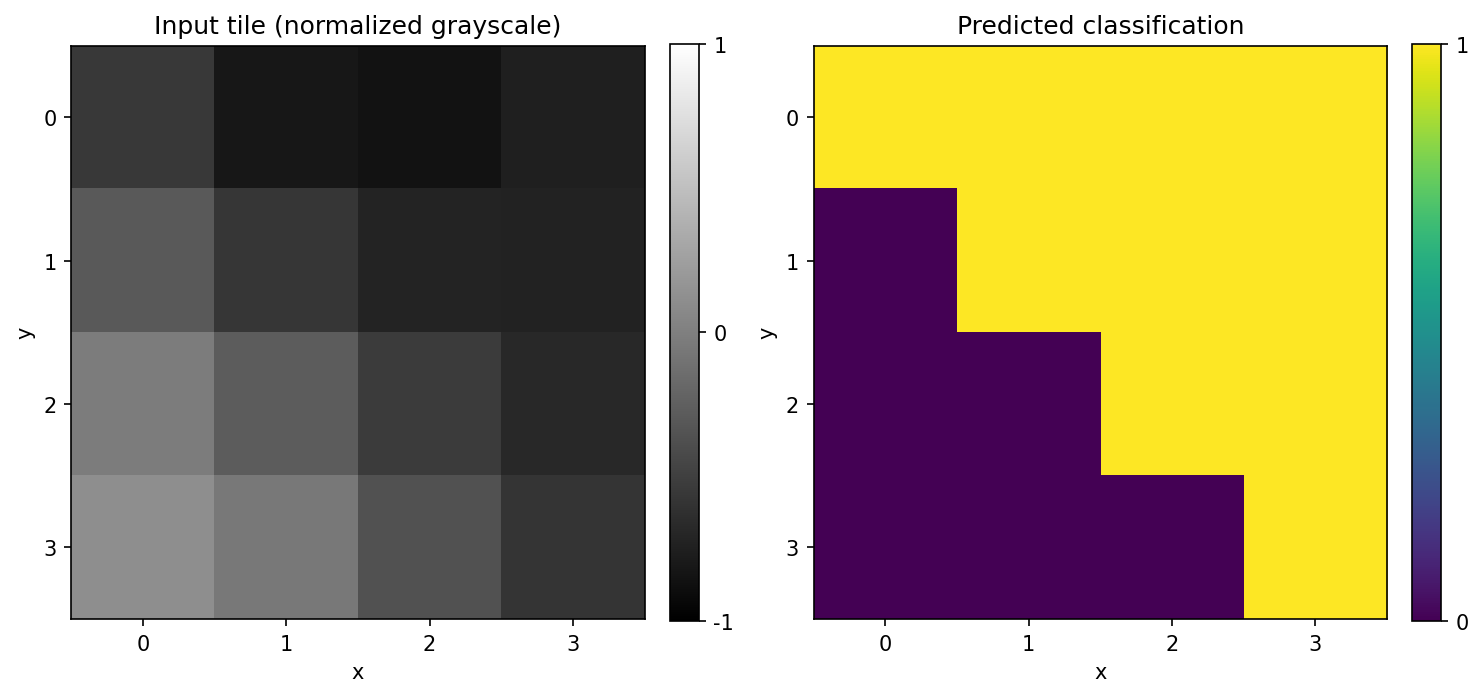
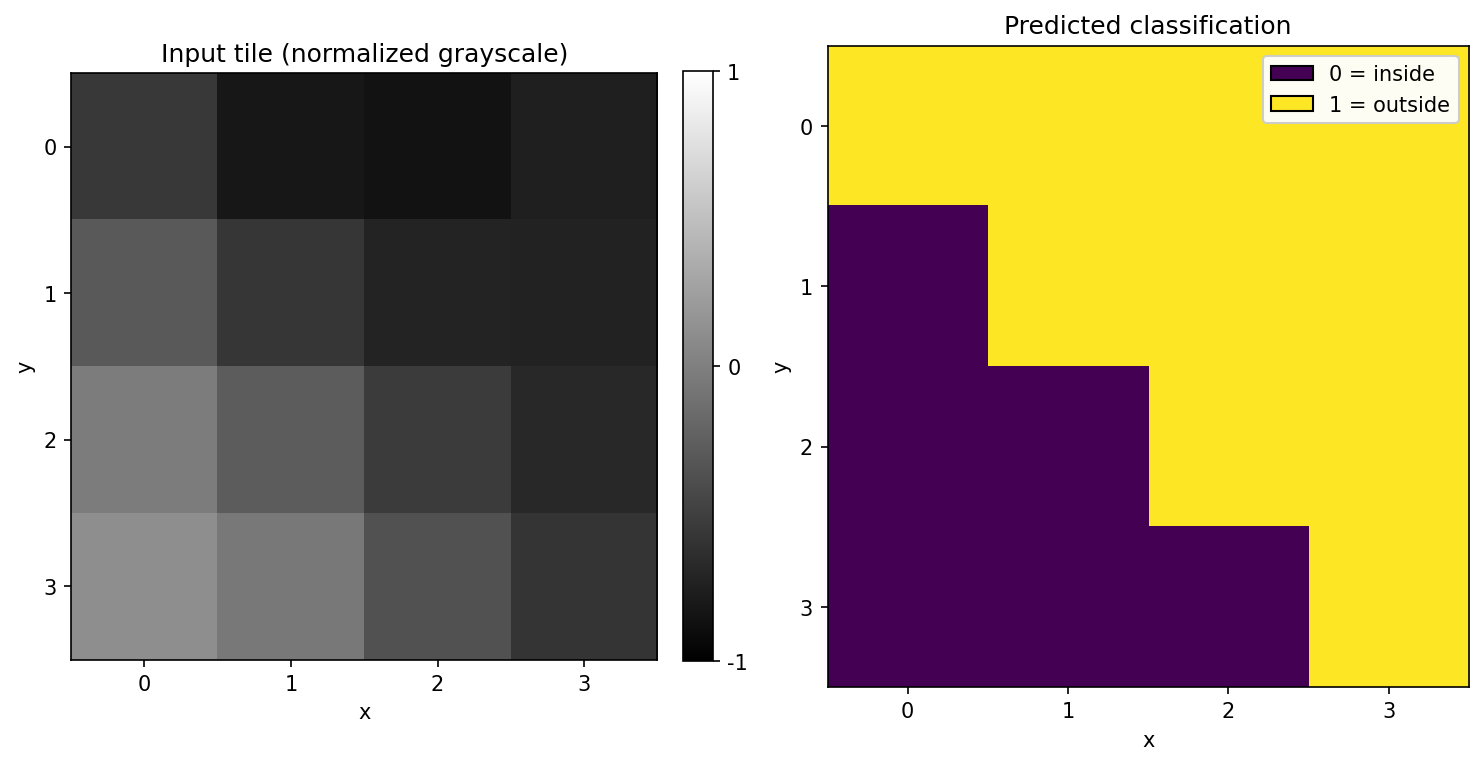
fixed label

diff --git a/ehands_qcrank_vertex_classification_flat.py b/ehands_qcrank_vertex_classification_flat.py
@@ -7,6 +7,7 @@ import argparse
 from PIL import Image
 import numpy as np
 import matplotlib.pyplot as plt
+from matplotlib.patches import Patch
 from math import pi
 import sys
 from dotenv import load_dotenv
@@ -941,10 +942,17 @@ def plot_input_tile_and_classification(input_tile, predicted_tile, out_name):
     ax_pred.set_title("Predicted classification")
     ax_pred.set_xlabel("x")
     ax_pred.set_ylabel("y")
-    cbar = fig.colorbar(im1, ax=ax_pred, ticks=[0, 1], fraction=0.046, pad=0.04)
-    cbar.set_ticklabels(["0", "1"])
     ax_pred.set_xticks(np.arange(predicted_tile.shape[1]))
     ax_pred.set_yticks(np.arange(predicted_tile.shape[0]))
+    cmap = plt.get_cmap("viridis")
+    ax_pred.legend(
+        handles=[
+            Patch(facecolor=cmap(0.0), edgecolor="black", label="0 = inside"),
+            Patch(facecolor=cmap(1.0), edgecolor="black", label="1 = outside"),
+        ],
+        loc="upper right",
+        framealpha=0.95,
+    )
 
     fig.tight_layout()
     fig.savefig(out_name, bbox_inches="tight", dpi=150)
